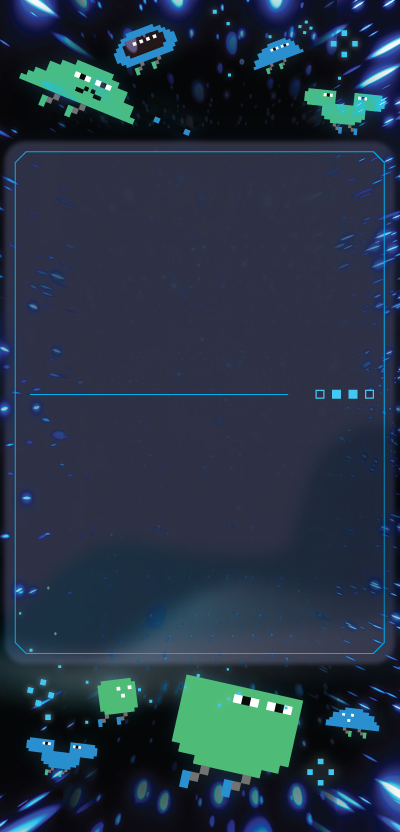
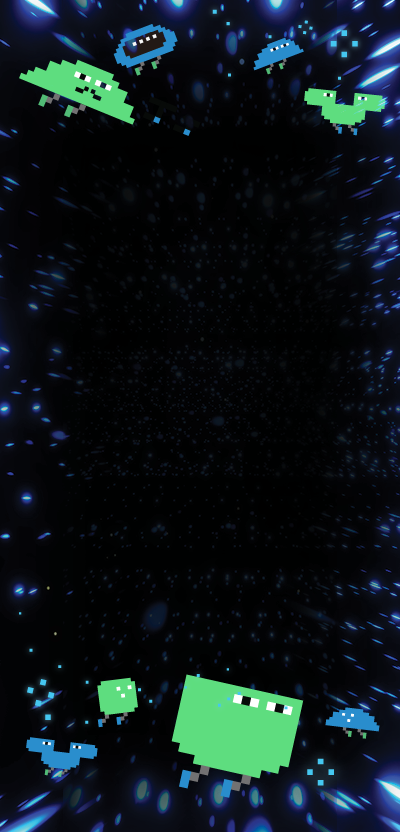
up mb img , mb layout

diff --git a/src/App.jsx b/src/App.jsx
@@ -22,8 +22,12 @@ import {
 } from "react-share";
 import icon_home from "./assets/icon_home.png";
 import icon_share from "./assets/icon_share.png";
+import icon_dl from "./assets/icon_dl.png";
 import web_bg from "./assets/web_bg.png";
 import mb_bg from "./assets/mb_bg.png";
+import mb_border from "./assets/mb_border.png";
+import mb_border1 from "./assets/mb_border1.png";
+import mb_border2 from "./assets/mb_border2.png";
 function App() {
   const url = window.location.href;
   const [isCopied, setIsCopied] = useState(false);
@@ -173,14 +177,21 @@ function App() {
       >
         <div className="bg-black fixed w-full h-screen -z-10 opacity-10 top-0 left-0"></div>
         <div
-          className={`flex flex-col items-center  h-screen   ${
+          className={`flex flex-col items-center    ${
             isMobile
-              ? "h-screen px-6 -mt-5 justify-center"
-              : "pt-[3%] justify-start "
+              ? "h-screen  -mt-5 justify-center"
+              : "pt-[3%] justify-start h-screen "
           } `}
         >
           <div
-            className={` ${isMobile ? "w-full" : `pt-[2%] ${containerWidth}`} `}
+            className={`bg-contain bg-no-repeat bg-top    ${
+              isMobile
+                ? "w-full aspect-[400/600] px-6 pt-[8%]"
+                : `pt-[2%] ${containerWidth}`
+            } `}
+            style={{
+              backgroundImage: `url(${isMobile ? mb_border : ""})`,
+            }}
           >
             {videoId && (
               <div className="w-full  aspect-video drop-shadow-xl rounded-lg overflow-hidden">
@@ -197,8 +208,14 @@ function App() {
                 />
               </div>
             )}
+            {isMobile && (
+              <div className="flex items-center  justify-between mt-[3%] px-2">
+                <img src={mb_border1} alt="" />
+                <img src={mb_border2} alt="" />
+              </div>
+            )}
 
-            <div className="text-white my-5 rounded-sm space-y-4 ">
+            <div className="text-white my-3 rounded-sm space-y-4 flex flex-col justify-between h-[40%] ">
               <div
                 className={`text-base font-normal text-white/90 leading-6 ${
                   isMobile
@@ -206,14 +223,12 @@ function App() {
                     : "pt-[2%] px-[3%]"
                 }`}
               >
-                Hello 歡迎大家來到隆田chacha園區，
-                體驗「四鐵迴憶、沈浸AI劇院」， 透過AI技術一銅搭乘時空列車，
-                到未來的臺南500隆田chacha園區！
+                Hello歡迎大家來到隆田ChaCha文化資產教育園區，體驗「四鐵迴憶·AI沉浸式劇場」，並透過AI技術一同搭乘時空列車來到未來時空的隆田儲運站喔！
               </div>
-              <div className={`flex w-full items-end gap-2 justify-end   `}>
+              <div className={`flex w-full items-end gap-2 justify-end      `}>
                 <div
                   className={`${
-                    isMobile ? "w-2/3 pt-[4%]" : "w-[25%]"
+                    isMobile ? "w-2/3 pt-[6%] " : "w-[25%]"
                   }  flex ml-auto justify-end`}
                 >
                   <div onClick={handleOpen} className=" cursor-pointer ">
@@ -223,7 +238,7 @@ function App() {
                     onClick={() => downloadVideo(curVideo.video_url)}
                     className="btn-download"
                   >
-                    <img src={icon_home} alt="" />
+                    <img src={icon_dl} alt="" />
                   </div>
                 </div>
               </div>
